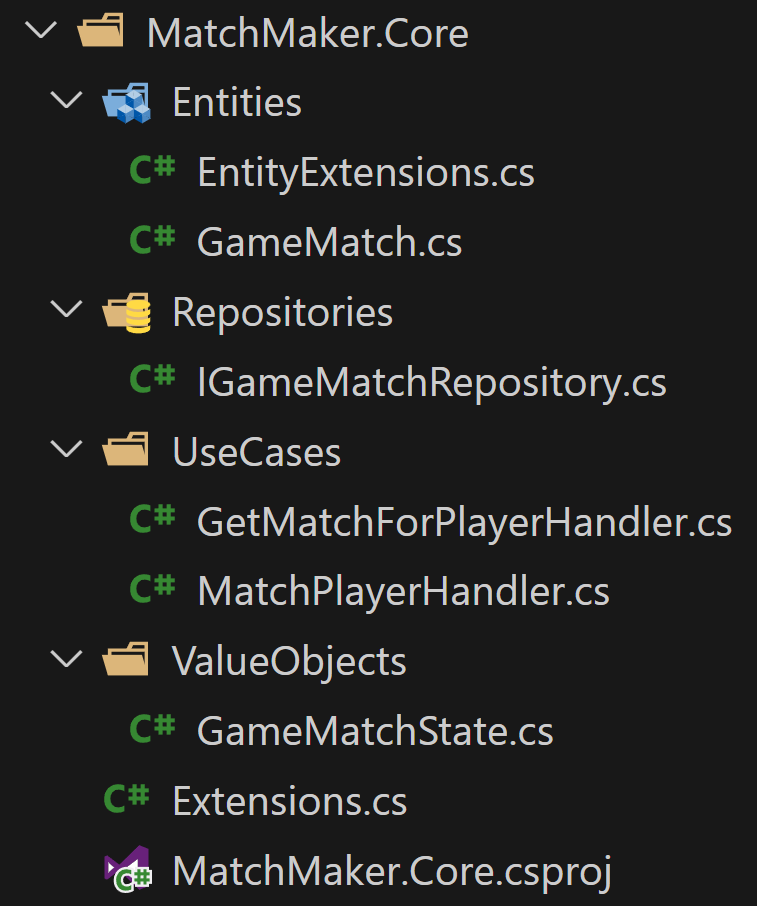
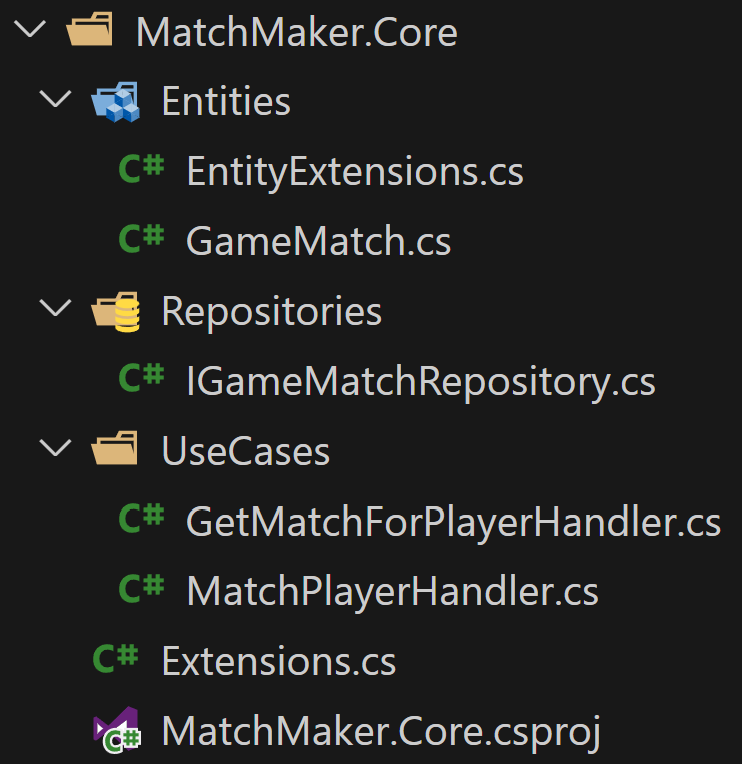
Update clean arch post

diff --git a/_posts/2023-07-22-Clean-Architecture.md b/_posts/2023-07-22-Clean-Architecture.md
@@ -121,14 +121,13 @@ public class GameMatch
 
     public string? Player2 { get; private set; }
 
-    [JsonConverter(typeof(JsonStringEnumConverter))]
     public GameMatchState State { get; private set; }
 
     // More properties here
 
     public void SetPlayer2(string player2)
     {
-        ArgumentException.ThrowIfNullOrEmpty(player2, nameof(player2));        
+        ArgumentException.ThrowIfNullOrEmpty(player2);        
 
         Player2 = player2;
         State = GameMatchState.MatchWaitingForGame;
@@ -198,18 +197,7 @@ public interface IGameMatchRepository
 
 Similar to Repositories, sometimes I also have a `Services` folder here, with a bunch of interfaces to interact with other infrastructure services.
 
-The `ValueObjects` folder contains any types that can only be defined by their attributes rather than their identity. Like **GameMatchState** here:
-
-```csharp
-public enum GameMatchState
-{
-    WaitingForOpponent,
-    MatchWaitingForGame,
-    GameReady
-}
-```
-
-Lastly, I also have a `Extensions` class there to provide a single method to register all the Core dependencies:
+Lastly, there's an `Extensions` class to provide a single method to register all the Core dependencies:
 
 ```csharp
 public static IServiceCollection AddCore(
@@ -247,7 +235,7 @@ public record JoinMatchRequest(string PlayerId);
 <br/>
 
 **Infrastructure**  
-This is probably the "dirtiest" project since it's allowed to get a dependency on pretty much any external framework.
+This is where the `Interface Adapters` live, and therefore this project is allowed to get a dependency on pretty much any external framework.
 
 <img src="{{ site.url }}/assets/images/clean-arch-infra.png" style="max-width: 50%" />
 
@@ -385,7 +373,7 @@ And here's where one of the key benefits of Clean Architecture comes into play:
 
 > You can focus your unit tests on the business rules (entities and use cases) without having to worry about any external dependencies.
 
-This is possible because the Core project has no dependencies on any external framework, so you can easily mock any dependencies when testing the handlers.
+This is possible because the Core project has no dependencies on any external framework, so you can easily mock any collaborators via the repository and service interfaces defined in Core.
 
 Here's one of the **MatchPlayerHandler** unit tests:
 
@@ -418,12 +406,12 @@ And when you are done adding tests for Core, you know that you have a solid foun
 #### **So, what do you get by using Clean Architecture?**
 In concrete terms, here are the benefits I've gotten in my projects by using Clean Architecture:
 
-* I can easily make changes to my core business rules (entities and use cases) since they are centralized in one place, and they are not mixed with any infrastructure concerns.
-* I can easily unit test those business rules without having to worry about any external dependencies.
-* It's easy to understand my use cases since they are small classes that only have one responsibility.
-* I don't have to worry about the database I ultimately choose to use. I can start with an in-memory repository and then switch to Mongo DB, Entity Framework with SQL Server, Cosmos DB, etc. without having to change any code in the Core project.
-* In fact, I can switch any infrastructure piece without having to change any code in the Core project, which protects me from unnecessary regressions.
-* My endpoints or controllers are super lean since all they do is invoke a handler and return the result. Because of this I don't worry much about unit testing them (let integration tests take care).
+* **I can easily make changes to my core business rules** (entities and use cases) since they are centralized in one place, and they are not mixed with any infrastructure concerns.
+* **I can easily unit test those business rules** without having to worry about any external dependencies.
+* **It's easy to understand my use cases** since they are small classes that only have one responsibility.
+* **I don't have to worry about the database I ultimately choose to use**. I can start with an in-memory repository and then switch to Mongo DB, Entity Framework with SQL Server, Cosmos DB, etc. without having to change any code in the Core project.
+* In fact, **I can switch any infrastructure piece** without having to change any code in the Core project, which protects me from unnecessary regressions.
+* **My endpoints or controllers are super lean** since all they do is invoke a handler and return the result. Because of this I don't worry much about unit testing them (let integration tests take care).
 
 But I think the most important benefit is this:
 
